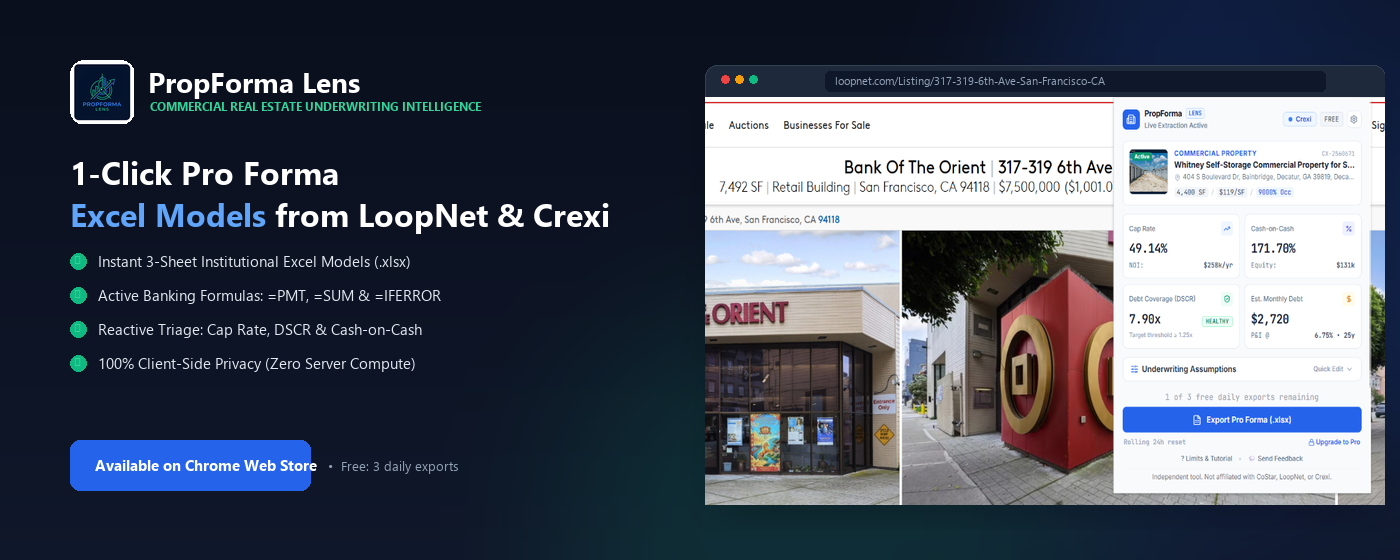
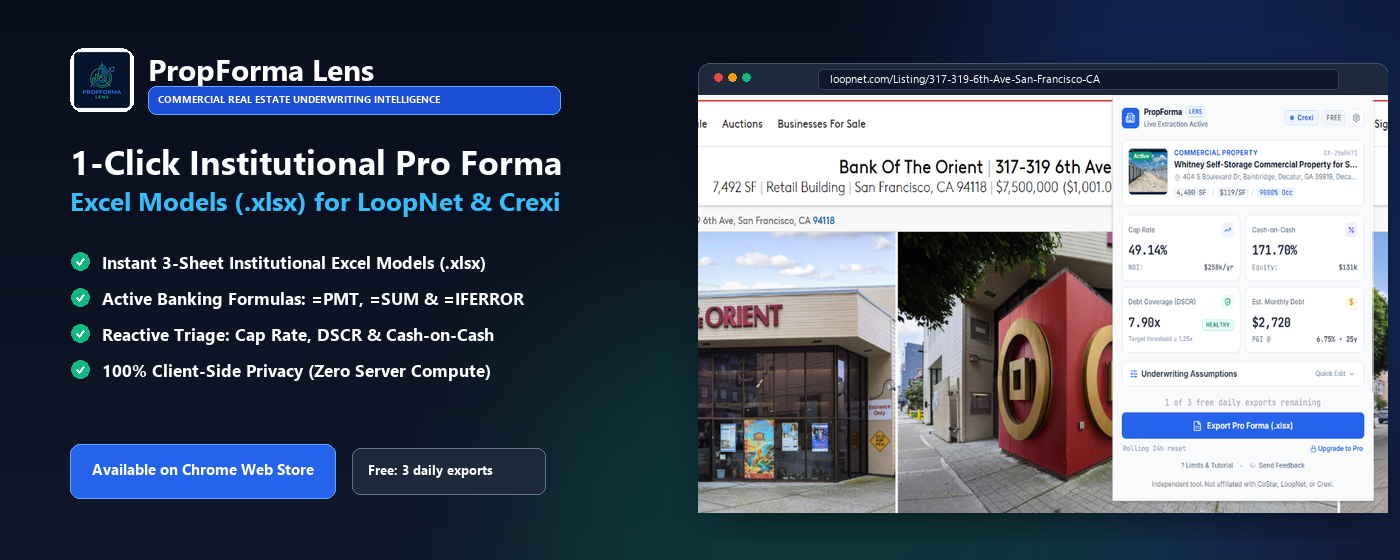
Add official Privacy Policy and updated high-contrast Chrome Web Store assets

diff --git a/PRIVACY_POLICY.md b/PRIVACY_POLICY.md
@@ -1,0 +1,73 @@
+# Privacy Policy — PropForma Lens
+
+**Effective Date:** September 27, 2026  
+**Last Updated:** September 27, 2026
+
+PropForma Lens ("we," "our," or "the Extension") is committed to protecting your privacy. This Privacy Policy explains our practices regarding data collection, usage, and disclosure for our Google Chrome Extension, **PropForma: Underwriter for LoopNet & Crexi**.
+
+---
+
+## 1. Single Purpose & Core Functionality
+
+PropForma Lens is designed with a single, specific purpose:  
+**To extract commercial real estate listing details from LoopNet and Crexi and generate an Excel (.xlsx) financial pro forma underwriting model.**
+
+All extraction, underwriting calculations, and Excel file generations are performed **100% locally within your client browser**.
+
+---
+
+## 2. Information We Do NOT Collect
+
+We believe your investment pipeline and financial criteria are strictly confidential. Therefore:
+* **No Deal or Property Data Collection:** We do not collect, transmit, store, or log any commercial property information, addresses, asking prices, financial assumptions, or underwriting results.
+* **No Browsing History Collection:** We do not track, collect, or store your web browsing history outside of the active tab when you explicitly activate the extension on supported listing pages.
+* **No Personal Data Selling:** We do not sell, rent, trade, or transfer any user data to third parties.
+* **No Creditworthiness or Lending Evaluation:** We do not use or transfer user data to determine creditworthiness or for lending purposes.
+
+---
+
+## 3. Local Data Storage & Permissions
+
+The extension requests the minimum set of permissions necessary to deliver its core functionality:
+
+1. **`activeTab`**:
+   * *Purpose:* Enables the extension popup to communicate with the currently active LoopNet or Crexi listing tab when the user clicks the extension action icon.
+   * *Data Handling:* Property data read from the page DOM is held temporarily in browser memory and is never transmitted off the device.
+
+2. **`storage`**:
+   * *Purpose:* Saves user-configured default underwriting parameters (e.g., default Loan-to-Value ratio, benchmark interest rate, amortization years, vacancy allowance) and local Pro license activation status.
+   * *Data Handling:* Stored locally on your device via `chrome.storage.local` / `chrome.storage.sync`.
+
+3. **`downloads`**:
+   * *Purpose:* Saves the generated `.xlsx` workbook directly to your local computer's default downloads directory when you click "Export Pro Forma (.xlsx)".
+
+4. **Host Permissions (`*://*.loopnet.com/*`, `*://*.crexi.com/*`)**:
+   * *Purpose:* Injects the content script strictly on LoopNet and Crexi listing pages to parse publicly visible property data.
+
+---
+
+## 4. Third-Party Services & Licensing
+
+* **Payment & License Activation:** Payments and license keys are processed through our merchant of record, Lemon Squeezy (or Stripe). When you purchase a license or activate a Pro key, your license key is verified directly against Lemon Squeezy's secure public activation API (`https://api.lemonsqueezy.com/v1/licenses/activate`). No personal banking details, passwords, or credit card numbers are collected, handled, or stored by the PropForma Lens extension.
+
+---
+
+## 5. Security Architecture
+
+Because PropForma Lens executes completely client-side in the user's browser runtime:
+* Data never touches external intermediary servers.
+* No remote JavaScript code is fetched, evaluated, or executed at runtime. All extension code is packaged statically within the official Chrome Web Store distribution.
+
+---
+
+## 6. Policy Changes & Updates
+
+We may update this Privacy Policy from time to time. Any changes will be posted on this page with an updated "Last Updated" date.
+
+---
+
+## 7. Contact Information
+
+If you have questions, feedback, or concerns regarding this Privacy Policy or your data privacy, please contact us:
+* **GitHub Repository & Issues:** [https://github.com/haydiru/propforma/issues](https://github.com/haydiru/propforma/issues)
+* **Website:** [https://github.com/haydiru/propforma](https://github.com/haydiru/propforma)
